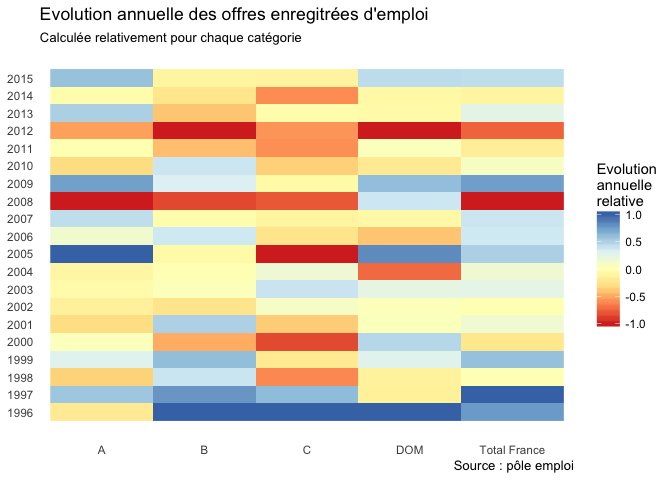
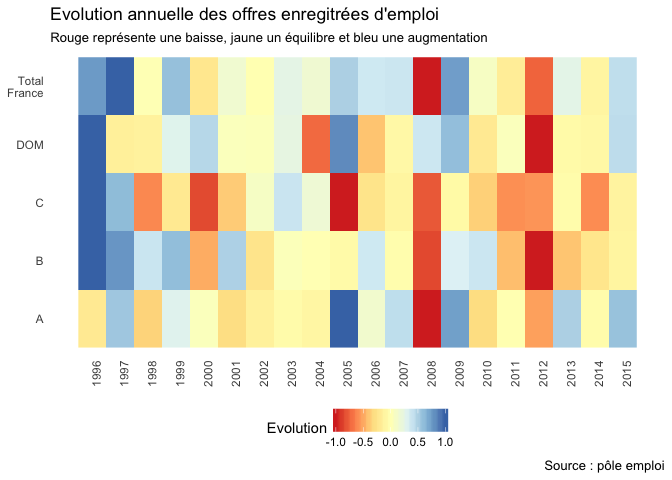
Improve heatmap, add conclusion

diff --git a/offres_emplois.md b/offres_emplois.md
@@ -329,22 +329,31 @@ Nous pouvons maintenant faire une "heatmap" pour voir ces évolutions par année
 
 ``` r
 ggplot(tendance_echelle, 
-       aes(categorie, annee, fill = tendance)) +
+       aes(y = categorie, x = annee, fill = tendance)) +
   geom_raster() +
   scale_fill_gradientn(colors = brewer.pal(7, "RdYlBu"))+
-  scale_y_continuous(breaks = 1996:2015, labels = 1996:2015) +
-  scale_x_discrete(breaks = levels(tendance_echelle$categorie),
-                   labels = c("A", "B", "C", "DOM", "Total France"))+
+  scale_x_continuous(breaks = 1996:2015, labels = 1996:2015) +
+  scale_y_discrete(breaks = levels(tendance_echelle$categorie),
+                   labels = c("A", "B", "C", "DOM", "Total\nFrance"))+
   theme(panel.grid.major = element_blank(),
-        panel.grid.minor = element_blank()) +
+        panel.grid.minor = element_blank(),
+        legend.position = "bottom",
+        axis.text.x = element_text(angle = 90)) +
   labs(x = NULL,
        y = NULL,
-       fill = "Evolution\nannuelle\nrelative",
+       fill = "Evolution",
        title = "Evolution annuelle des offres enregitrées d'emploi",
-       subtitle = "Calculée relativement pour chaque catégorie",
+       subtitle = "Rouge représente une baisse, jaune un équilibre et bleu une augmentation",
        caption = "Source : pôle emploi")
 ```
 
 ![](offres_emplois_files/figure-markdown_github/Heatmap-1.png)
 
 Nous voyons que les catégories C sont en baisse continue (globalement) depuis 2005 où il y a eu la chute la plus importante.
+Les catégories B ont subi leur plus forte chute en 2012, c'est la catégorie qui a le plus subi la crise de la zone euro.
+La catégorie A a fortement reculé en 2008, et il y a un léger mieux depuis 2013. La variation des offres d'emploi enregistrées dans les DOM est assez différente de la variation des autres variables.
+
+Conclusion
+----------
+
+A partir des offres d'emploi enregistrées, nous pouvons voir les différentes crises économiques. Les offres d'emploi inférieures à 1 mois sont peu importantes et diminuent depuis plusieurs années. Les offres d'emploi de plus de 6 mois sont en progression ces dernières années.
